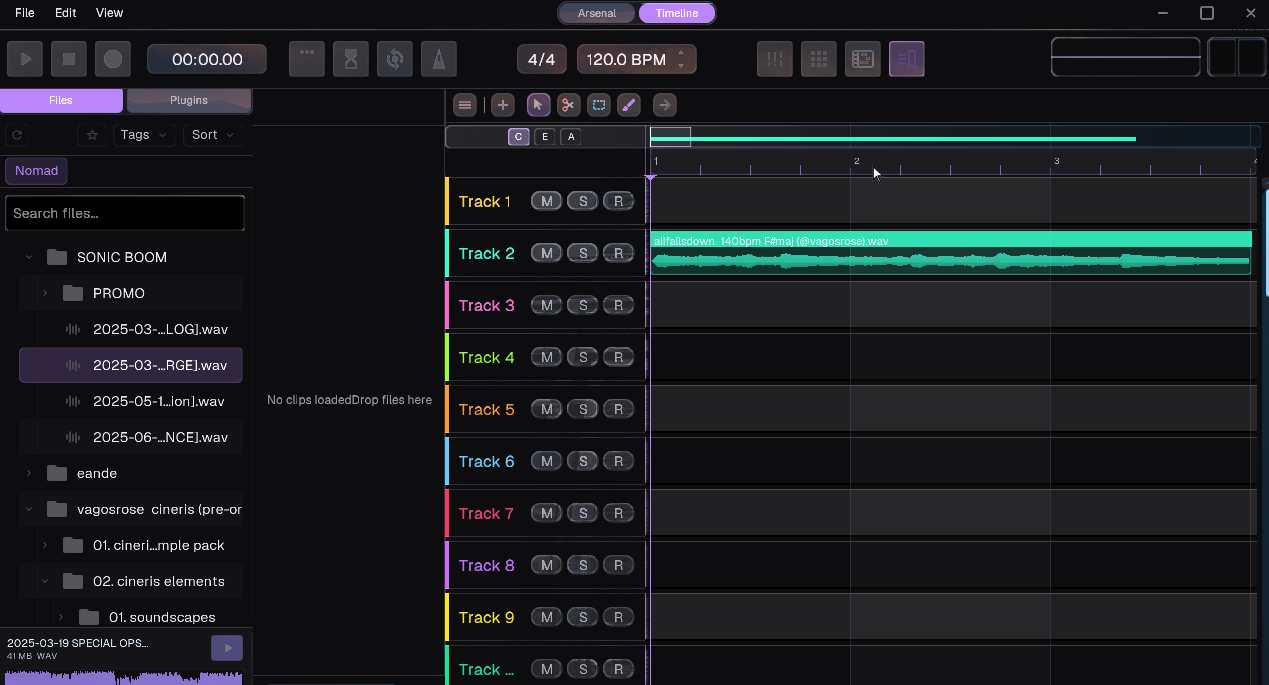
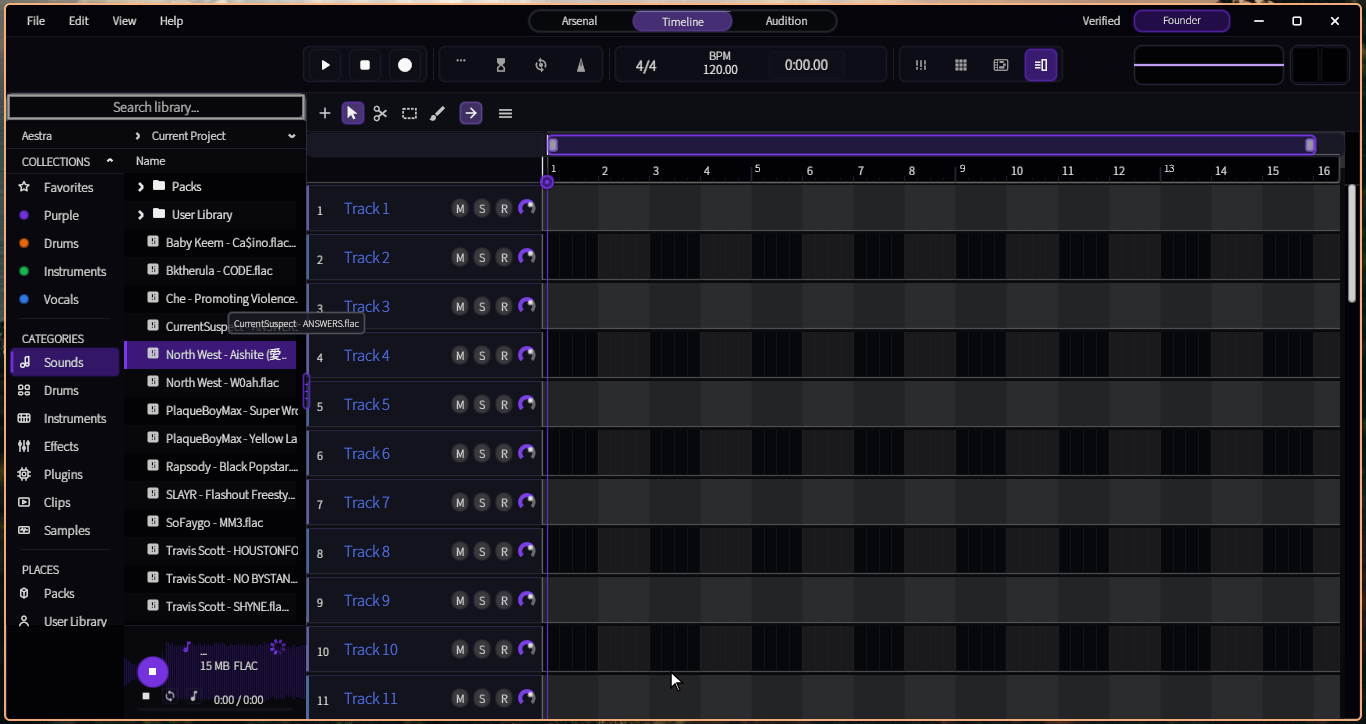
Update README screenshot and date to May 2026

diff --git a/README.md b/README.md
@@ -12,7 +12,7 @@
 
 Aestra is currently on a public `0.x` pre-beta line. The current roadmap target is **v1 Beta in December 2026**.
 
-As of April 2026, the repo is in active engineering mode rather than release-polish mode. The most reliable currently verified paths are:
+As of May 2026, the repo is in active engineering mode rather than release-polish mode. The most reliable currently verified paths are:
 
 - Internal built-in plugin discovery through the normal manager/factory path
 - `Aestra Rumble` instantiation, state save/restore, and project round-trips
